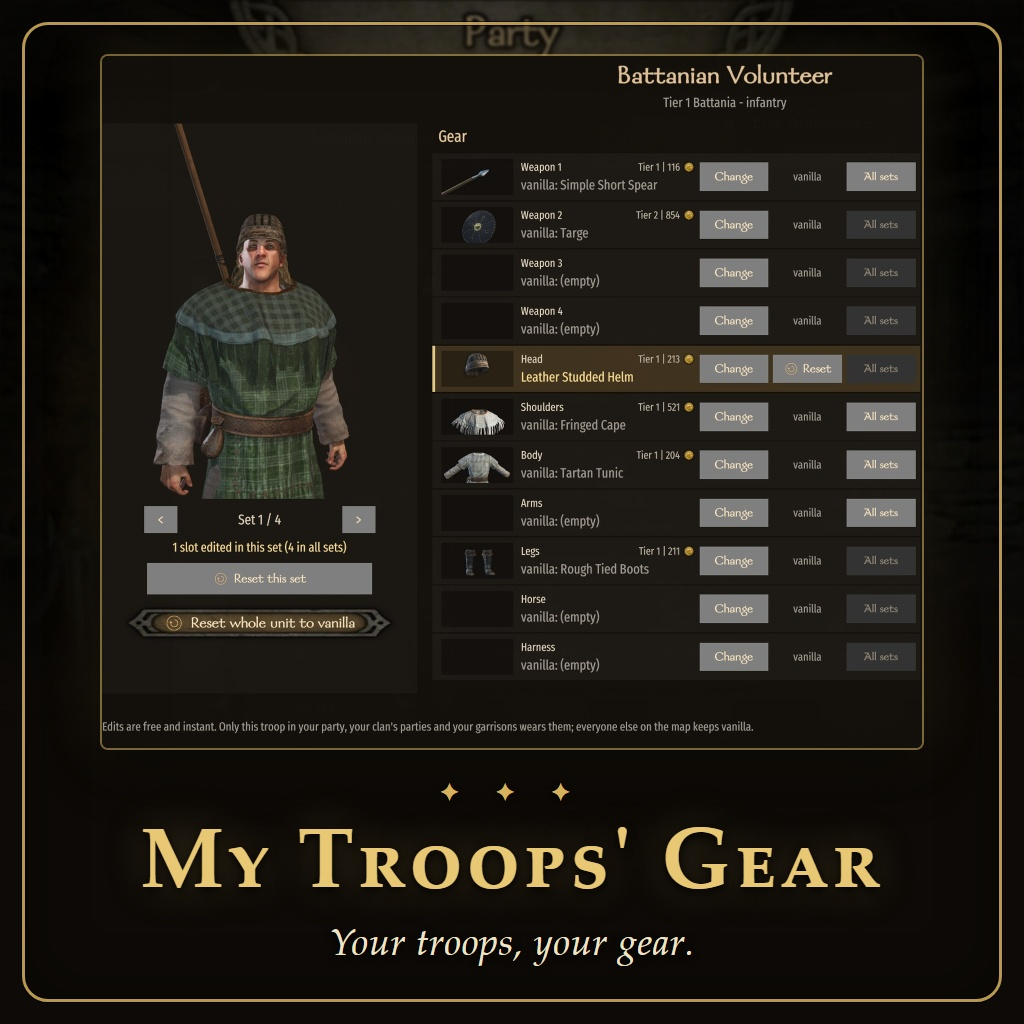
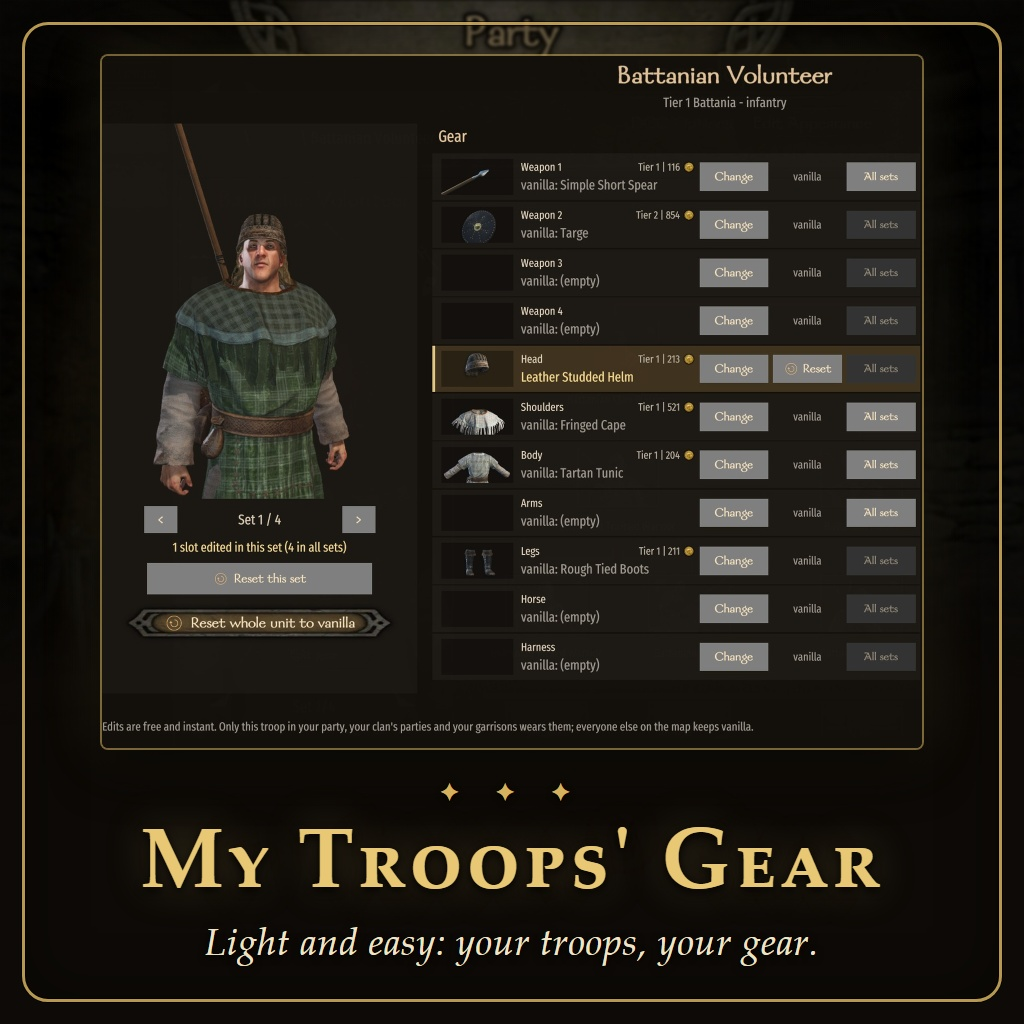
Say it's light and easy: thumbnail tagline, README, store texts

Changed region(s): [[0.1875, 0.9062, 0.7812, 0.9375]]

diff --git a/tools/preview_thumbnail.html b/tools/preview_thumbnail.html
@@ -74,7 +74,7 @@
     <div class="titleblock">
       <div class="ornament">✦ ✦ ✦</div>
       <h1>My Troops' Gear</h1>
-      <div class="tagline">Your troops, your gear.</div>
+      <div class="tagline">Light and easy: your troops, your gear.</div>
     </div>
   </div>
 </body>

diff --git a/README.md b/README.md
@@ -7,7 +7,9 @@ A mod for Mount & Blade II: Bannerlord.
 Made by two of us: the code and all technical work by Claude (Opus 5.5), an AI; the idea, feedback and
 playtesting by [Trax](https://github.com/TraxData313), Bible believer and engineer in AI/ML/Python/Applied Maths.
 
-Change the gear of your own troops. Open any troop in the Encyclopedia - say the Battanian Volunteer - press
+**Change the gear of your own troops - light and easy.** No new troops, no new tree, no mix of special and normal units: you edit the troops you already recruit.
+
+Open any troop in the Encyclopedia - say the Battanian Volunteer - press
 **Edit gear** and swap his weapons, armour or horse slot by slot. Only troops of **your** parties wear your
 version: your party, your clan's parties and your garrisons. Everyone else in Calradia keeps the vanilla gear.
 
